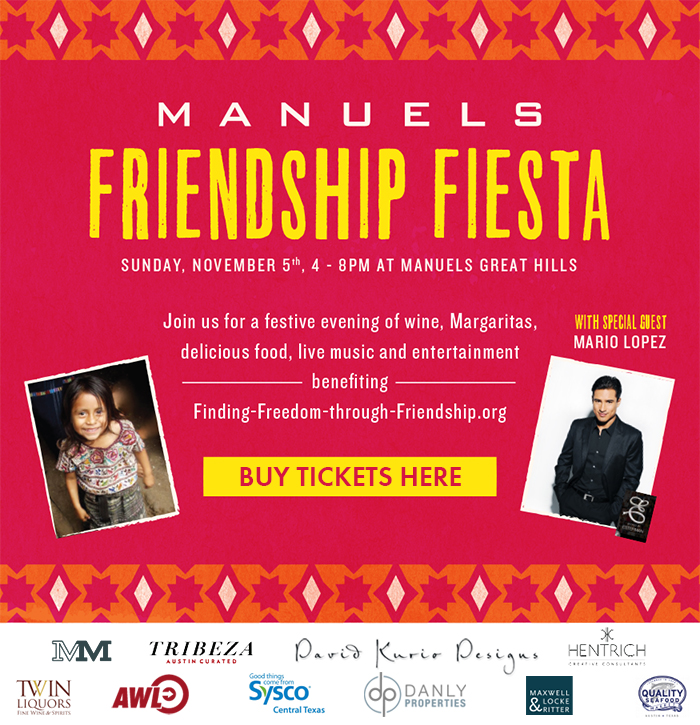
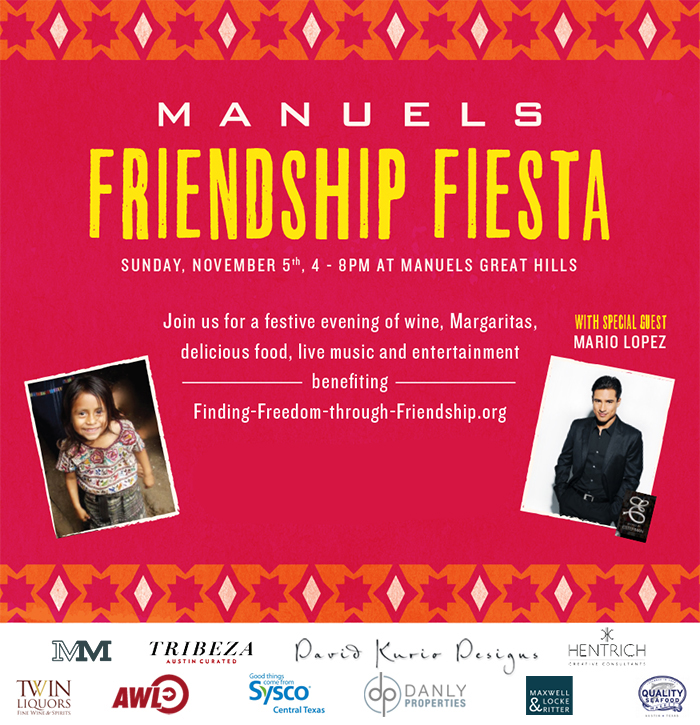
updated the second document

Changed region(s): [[0.27, 0.6069, 0.72, 0.6979]]

diff --git a/index.html b/index.html
@@ -336,7 +336,7 @@
           </div>
           <div class="fix-12-12 margin-top-0">
             <a href="https://ticketbud.com/events/93c7f06e-8cc5-11e7-9ace-8b1ac1167966" target="_blank">
-            <img style="overflow: scroll;" src="assets/img/OnlineBuy-02-01.jpg" class="wide" alt="Thumbnail" />
+            <img style="overflow: scroll;" src="assets/img/SponsorshipNew.jpg" class="wide" alt="Thumbnail" />
               </a></div>
         </div>
       </div>
